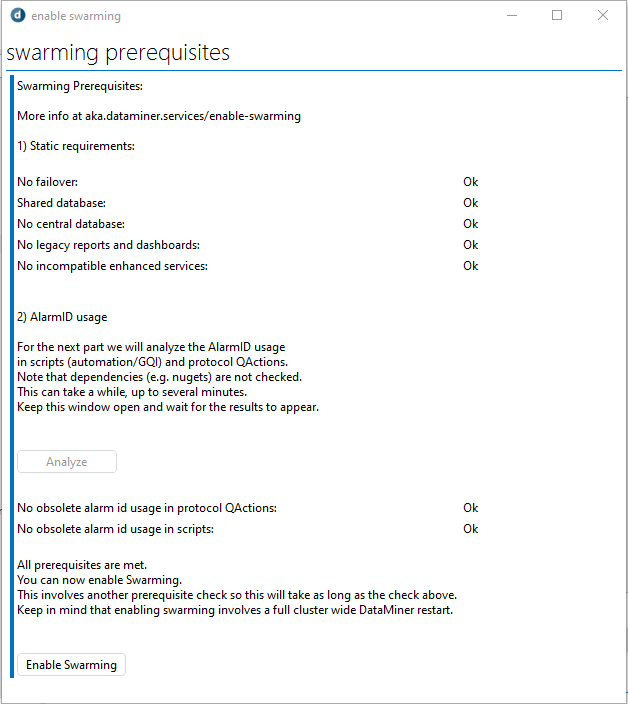
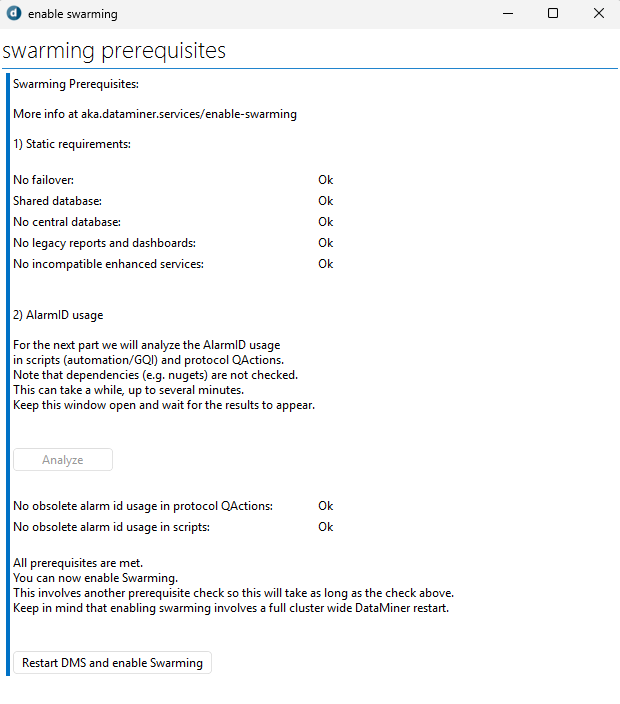
Review
Includes a change to several tutorials because checking the deployment status in the Admin app is no longer needed.

diff --git a/user-guide/Advanced_Functionality/Swarming/Tutorials/EnableSwarmingTutorial.md b/user-guide/Advanced_Functionality/Swarming/Tutorials/EnableSwarmingTutorial.md
@@ -3,16 +3,24 @@ uid: Swarming_Tutorial_Enable
 keywords: swarming, swarming tutorial
 ---
 
-# Enabling Swarming Tutorial
+# Enabling Swarming
 
-In this tutorial, you will learn how to enable Swarming in your DMS and swarm your first element.
+In this tutorial, you will learn how to enable [Swarming](xref:Swarming) in your DMS and swarm your first element. The tutorial makes use of an example Automation script to demonstrate how you need to adjust scripts to make sure you can enable Swarming.
+
+The content and screenshots for this tutorial have been created using DataMiner version 10.5.3.
 
 ## Prerequisites
 
-- A DataMiner System that is [connected to dataminer.services](https://docs.dataminer.services/user-guide/Cloud_Platform/Connecting_to_cloud/Connecting_your_DataMiner_System_to_the_cloud.html).
-- The DataMiner version is 10.5.1/10.6.0[CU0] or higher.
-- A DataMiner System with 2 or more agents. If you are using a single agent, you can follow along, however you won't be able to do the last step (swarming an element).
-- Swarming has its own set of prerequisites, more on that later during the tutorial.
+For this tutorial, you will need a DataMiner System that meets the following requirements:
+
+- [Connected to dataminer.services](https://docs.dataminer.services/user-guide/Cloud_Platform/Connecting_to_cloud/Connecting_your_DataMiner_System_to_the_cloud.html).
+- Using DataMiner 10.5.1/10.6.0 [CU0] or higher.
+- Containing two or more Agents, but no Failover Agents. If you are using a single Agent, you can follow along, but you will not be able to do the last step (swarming an element).
+- Using [STaaS](xref:STaaS) or a [dedicated clustered storage](xref:Configuring_dedicated_clustered_storage) setup.
+- Without [data offloads](xref:Offload_database) configured.
+- The [*LegacyReportsAndDashboards* soft-launch option](xref:Overview_of_Soft_Launch_Options#legacyreportsanddashboards) is not enabled.
+
+Other prerequisites for Swarming will be addressed later in this tutorial.
 
 ## Overview
 
@@ -29,138 +37,128 @@ To deploy the package:
 
 1. Deploy the latest version of the package on your DMA using the *Deploy* button.
 
-    While the package is being deployed, you can follow the progress of the deployment in the [Admin app](xref:Accessing_the_Admin_app), on the *Deployments* page for your DMS. Make sure to use the *Refresh* button in the top-left corner.
+1. When the package has been deployed, open DataMiner Cube and check whether you can see the following scripts in the *Kata - Swarming* folder of the Automation module:
 
-    The package will deploy the following components:
+   - *Mask Critical Alarms*: This is a demo script to mask the critical alarms of some elements.
 
-    - The **Mask Critical Alarms** Automation script, which is a demo script to mask the critical alarms of some elements.
-
-    - The **Enable Swarming** Automation script, which is an interactive automation script to go through the enabling procedure for Swarming.
-
-    Both scripts can be found under the **Kata - Swarming** folder.
+   - *Enable Swarming*: This interactive Automation script takes you through the enabling procedure for Swarming.
 
    ![Package Content](~/user-guide/images/Swarming_Tutorial_Enable_Package_Content.png)
 
 ## Step 2: Create a basic test element
 
-In this tutorial we will Swarm an element.
+In this tutorial, you will swarm an element. To avoid impacting ongoing operations, start by adding a new test element.
 
-To not impact any ongoing operation, you can create a new basic test element or you can import some demo elements from for example the [Satellite Earth Station Uplink](https://catalog.dataminer.services/details/c8adec4a-e7be-47a4-b7a4-e574e0381fe6) package.
+You can either [create a new basic test element](xref:Adding_elements) yourself or import a demo element, e.g. by deploying the [Satellite Earth Station Uplink](https://catalog.dataminer.services/details/c8adec4a-e7be-47a4-b7a4-e574e0381fe6) package.
 
-If you create a new element, you must specify the protocol.
-Since we are not doing anything except swarming the element, the protocol does not matter as long as it is swarmable.
-In DataMiner 10.5.1, most protocols are swarmable, most notable exceptions are protocols exporting virtual elements and spectrum elements.
-
-See also [Adding Elements](xref:Adding_elements) on how to create a new element.
+If you choose to create a new element yourself, you can select any protocol of your choice for it, except for a spectrum protocol or a DVE protocol, as these would not result in a swarmable element.
 
 ## Step 3: Enable Swarming
 
-Swarming has its own set of prerequisites.
-You can use the **Enable Swarming** script deployed with the Catalog package to go through them dynamically.
+Swarming has its own set of prerequisites. In this step, you will use a script from the deployed package to make sure these are met and then enable Swarming.
 
-1. Static requirements:
+1. In the Automation module in DataMiner Cube, select the *Enable Swarming* script and click the *Execute* button.
 
-   Launch the script for the first time and it will quickly verify the static requirements.
-   These are requirements not easily changed in your DMS such as database type or failover configuration.
+   ![Execute the Enable Swarming script](~/user-guide/images/Swarming_Tutorial_Run_script.png)
+
+1. In the pop-up window, click *Execute now*.
+
+   Information about the Swarming prerequisites will be displayed.
+
+1. Take a look at the mentioned static requirements.
+
+   These are the DMS requirements that are more difficult to change, such as the database type or Failover configuration. Based on the prerequisites for this tutorial, all prerequisites should be met, except possibly the requirement for compatible enhanced services.
 
    ![Static requirements](~/user-guide/images/Swarming_Tutorial_Enable_Static_Requirements.png)
 
-   You will see the status for your DMS and which requirements are met.
-   If not all requirements are met, you will not be able to enable Swarming.
-   If you are using a Skyline protocol for enhanced services, you will need to update it to use the latest version.
+1. In case *No incompatible enhanced services* is *Not Ok*, follow the instructions to [prepare enhanced service connectors for Swarming](xref:SwarmingPrepare#enhanced-service-connectors), and then run the script again.
 
-1. AlarmID usage:
+1. Click the *Analyze* button to start checking the alarm ID usage.
 
-   Once the static requirements are met, we can move on to the AlarmID usage.
-   This section will automatically appear when above requirements are met.
-   The AlarmID usage refers to the unique identifier of alarms and their usage in scripting (Automation/QActions).
+   This button will only be available once all static requirements are met. It will analyze the use of the unique identifiers of alarms in scripting (Automation scripts and QActions), as this has been modified to support Swarming. (See [About the Alarm ID changes](xref:SwarmingPrepare#about-the-alarm-id-changes).)
 
-   ![AlarmID Usage](~/user-guide/images/Swarming_Tutorial_Enable_AlarmID_Usage.png)
+   This check can take up to several minutes, depending on the number of scripts and connectors in the system.
 
-   In order for Swarming to work, this alarm identifier has been updated which is a breaking change.
-   To prevent possible issues as much as possible, there is a check to analyze your scripts automatically for problems.
-   Unfortunately it's not possible to scan dependencies (e.g. nugets), so these might still contain outdated references.
-   If this would be the case, running these scripts on a Swarming system would throw a clear error message.
+   ![Alarm ID usage](~/user-guide/images/Swarming_Tutorial_Enable_AlarmID_Usage.png)
 
-   Press the **Analyze** and wait for a bit until the results appear. This can take a while, up to several minutes depending on how many scripts and protocols you have.
+   > [!NOTE]
+   > It is not possible to scan dependencies (e.g. NuGets) with this script, so these may still contain outdated references. However, if this should be the case, running these scripts on a system where Swarming is enabled will throw a clear error message.
 
-   ![AlarmID Usage Problem](~/user-guide/images/Swarming_Tutorial_Enable_AlarmID_Usage_Problem.png)
+1. Take a look at the results of the analysis.
 
-   After analysis is done, the **Mask Critical Alarms** script should appear as one of the found problems.
-   This script takes as input a reference to an element and will mask all critical alarms of this element.
-   It does so by using a **SetAlarmStateMessage** and includes an identifier reference to the alarm it should mask.
-   This identifier still uses the old style of **DataMinerID/AlarmID** integer combination. This is no longer correct and will need a **TreeID** instead.
-   If you were to open this script via DIS in Visual Studio, you would see an obsolete warning.
-   You can also see this if you open the script via the Automation app and press the **Validate** button to check for errors and warnings.
+   ![Alarm ID usage problem](~/user-guide/images/Swarming_Tutorial_Enable_AlarmID_Usage_Problem.png)
+
+   The *Mask Critical Alarms* script will be displayed as one of the problems that have been found. This script takes as input a reference to an element and will mask all critical alarms of this element. It does so by using a *SetAlarmStateMessage* and includes an identifier reference to the alarm it should mask, but this identifier still uses the old style of referring to an alarm, i.e. a **DataMiner ID/Alarm ID** integer combination. This is must be changed to a **tree ID** instead.
+
+1. Open the *Mask Critical Alarms* script in the Automation app, scroll down, and click *Validate* to check for errors and warnings.
+
+   You will see that a warning is detected. If you were to open this script via DIS in Visual Studio, you would also see an obsolete warning.
 
    ![AlarmID Usage Problem Warning](~/user-guide/images/Swarming_Tutorial_Enable_AlarmID_Usage_Problem_Warning.png)
 
-   Update the code in the foreach block (Line 85) as follows:
+1. Update the code in the *foreach* block (line 85) as follows:
 
-    Before:
+   Before:
 
-    ```csharp
-        var maskRequest = new SetAlarmStateMessage();
-        maskRequest.DataMinerID = alarm.DataMinerID;
-        maskRequest.AlarmId = alarm.AlarmID;
-        maskRequest.DesiredStatus = AlarmUserStatus.Mask;
-        maskRequests.Add(maskRequest);
+   ```csharp
+      var maskRequest = new SetAlarmStateMessage();
+      maskRequest.DataMinerID = alarm.DataMinerID;
+      maskRequest.AlarmId = alarm.AlarmID;
+      maskRequest.DesiredStatus = AlarmUserStatus.Mask;
+      maskRequests.Add(maskRequest);
     ```
 
-    After:
+   After:
 
-    ```csharp
-        var maskRequest = new SetAlarmStateMessage(alarm.TreeID, AlarmUserStatus.Mask, "");
-        maskRequests.Add(maskRequest);
-    ```
+   ```csharp
+      var maskRequest = new SetAlarmStateMessage(alarm.TreeID, AlarmUserStatus.Mask, "");
+      maskRequests.Add(maskRequest);
+   ```
 
-   Press the **validate** button to see if all warnings and errors are gone.
+1. Click *Validate* again to see if all warnings and errors are gone.
 
-   ![AlarmID Usage Problem Fix](~/user-guide/images/Swarming_Tutorial_Enable_AlarmID_Usage_Problem_Fix.png)
+   ![Alarm ID usage problem fix](~/user-guide/images/Swarming_Tutorial_Enable_AlarmID_Usage_Problem_Fix.png)
 
-   If any other scripts or protocols appear, this will also need an update.
-   There will always be an overload or constructor you can use instead, which will refer to the **TreeID** or **AlarmTreeID**.
+1. If any other scripts or protocols are shown in the alarm ID usage summary, update these in a similar way to make sure they refer to the tree ID or alarm tree ID and validate them.
 
-   Please verify any updated script or protocol still works.
+   For detailed information, refer to [Preparing scripts and connectors for Swarming](xref:SwarmingPrepare)
 
-1. Enabling Swarming
+1. Run the the *Enable Swarming* script again and click the *Analyze* button again.
 
-   Once the static requirements are met and there are no AlarmID usage problems detected, a button will appear that you can press to enable Swarming.
-   Pressing this button will send the enable command to your DMS and will **restart the whole DMS**.
-   This process will check the requirements again, so this will take the same time as the step above.
-   After the DataMiner System restart, Swarming will be enabled.
+   If you have indeed correctly updated all scripts and protocols, a new button will be displayed at the bottom of the window. If you do not see this button, check which scripts or protocols still need to be updated and adjust them as mentioned above.
 
    ![AlarmID Usage Problem Fix](~/user-guide/images/Swarming_Tutorial_Enable_No_Problems.png)
 
+1. Click *Restart DMS and enable Swarming*.
+
+   The script will now double-check the requirements (which will again take some time), enable Swarming, and restart DataMiner.
+
+   > [!IMPORTANT]
+   > This will restart all DataMiner Agents in your DMS.
+
 ## Step 4: Swarm your first element
 
-Now it's time to swarm your first element.
-In general, Swarming means moving the functionality from one host to another host in the same cluster.
-
-For elements this is more or less equivalent with a full element restart, but the stop and start are executed on different hosts.
-Swarming elements is possible via the DataMiner Cube client as well as an automation API.
-
-To swarm elements in DataMiner Cube:
+Once DataMiner has restarted, you can test the Swarming functionality by moving an element from one host to another host in your DMS. You will only be able to follow these steps if you are using a DataMiner System consisting of multiple Agents.
 
 1. Go to *System Center* > *Agents* > *Status* and click the *Swarm* button in the lower right corner.
 
-    If you do not see any *Swarm* button here, this means you are not in a cluster environment and working with a single agent. As you cannot swarm to another host, this button is not present.
+   If you see a *Migrate* button here instead, this means Swarming has not been successfully enabled.
 
-    If you see a *Migrate* button here instead, this means Swarming was not successfully enabled. If you open this window, you will be using the DELT Export + Import flow instead.
+   ![Cube Status](~/user-guide/images/Swarming_Tutorial_Enable_Cube_Status.png)
 
-    ![Cube Status](~/user-guide/images/Swarming_Tutorial_Enable_Cube_Status.png)
+1. On the left, select the test element you created in [step 2](#step-2-create-a-basic-test-element).
 
-1. On the left, select the element(s) you want to swarm.
-
-    Here you can select the test element you created in step 2.
-    You can swarm more elements if you want, but keep in mind that swarming an element still involves an element restart, which means minimal downtime.
+   Note that you can select more elements to swarm if you want, but keep in mind that swarming an element involves an element restart, which will result in a brief downtime of the element.
 
 1. On the right, select the destination DMA.
 
-    ![Cube Swarm](~/user-guide/images/Swarming_Tutorial_Enable_Cube_Swarm.png)
+   ![Cube Swarm](~/user-guide/images/Swarming_Tutorial_Enable_Cube_Swarm.png)
 
 1. Click *Swarm*.
 
-    ![Cube Success](~/user-guide/images/Swarming_Tutorial_Enable_Cube_Success.png)
+   A message will be displayed when the element has been successfully swarmed:
 
-For more details about Swarming elements, see the [docs](xref:SwarmingElements).
+   ![Cube Success](~/user-guide/images/Swarming_Tutorial_Enable_Cube_Success.png)
+
+> [!TIP]
+> For more details about Swarming elements, see [Swarming elements](xref:SwarmingElements).

diff --git a/user-guide/Advanced_Functionality/Swarming/SwarmingElements.md b/user-guide/Advanced_Functionality/Swarming/SwarmingElements.md
@@ -6,7 +6,7 @@ uid: SwarmingElements
 
 With DataMiner Swarming, you can swarm basic elements from one DataMiner Agent to another within a cluster. You can do so [in DataMiner Cube](#swarming-elements-in-dataminer-cube) or [via an Automation script](#swarming-elements-via-automation).
 
-When you are swarming an element so it gets hosted on a different DataMiner Agent, a temporary transition occurs. While this happens, a message will be displayed to inform users that the element is currently swarming. The ability to open element cards or change the element configuration for the involved element will be temporarily suspended. Once the element migration is complete, it will become accessible again.
+When you are swarming an element so it gets hosted on a different DataMiner Agent, a temporary transition occurs. The element will be stopped and then started again on a new host. While this happens, a message will be displayed to inform users that the element is currently swarming. The ability to open element cards or change the element configuration for the involved element will be temporarily suspended. Once the element migration is complete, it will become accessible again.
 
 At present, Swarming is only possible with **regular elements**. Refer to [Upcoming features](xref:Swarming#upcoming-features) for information on which other types of elements will be supported in the future.
 

diff --git a/user-guide/Advanced_Modules/Dashboards_and_Low_Code_Apps/Dashboards_app/Tutorials/Visualizing_Starlink_Location_History_in_DataMiner.md b/user-guide/Advanced_Modules/Dashboards_and_Low_Code_Apps/Dashboards_app/Tutorials/Visualizing_Starlink_Location_History_in_DataMiner.md
@@ -41,9 +41,7 @@ Expected duration: 30 minutes
  -->
 1. Click the *Deploy* button to deploy the package on your DMA.
 
-   While the package is being deployed, you can follow the progress of the deployment in the [Admin app](xref:Accessing_the_Admin_app), on the *Deployments* page for your DMS. Make sure to use the *Refresh* button in the top-left corner.
-
-1. Go to the root page of your DataMiner System, for example by clicking the *Home* button for your DMS on the [dataminer.services page](https://dataminer.services/).
+1. When the package has been deployed, go to the root page of your DataMiner System, for example by clicking the *Home* button for your DMS on the [dataminer.services page](https://dataminer.services/).
 
 1. Check if you can see the *Starlink Enterprise* app listed under *SatOps*.
 

diff --git a/user-guide/Advanced_Modules/Dashboards_and_Low_Code_Apps/Dashboards_app/Tutorials/Alarm_Dashboard_for_your_daily_DMS_health_check.md b/user-guide/Advanced_Modules/Dashboards_and_Low_Code_Apps/Dashboards_app/Tutorials/Alarm_Dashboard_for_your_daily_DMS_health_check.md
@@ -35,9 +35,7 @@ Expected duration: 20 minutes
 
 1. Click the *Deploy* button to deploy the *Alarm Report* package on your DMA.
 
-   While the package is being deployed, you can follow the progress of the deployment in the [Admin app](xref:Accessing_the_Admin_app), on the *Deployments* page for your DMS. Make sure to use the *Refresh* button in the top-left corner.
-
-1. [Open the Dashboards app](xref:Accessing_the_Dashboards_app) and check if you can see the *Alarm Report* dashboard.
+1. When the package has been deployed, [open the Dashboards app](xref:Accessing_the_Dashboards_app) and check if you can see the *Alarm Report* dashboard.
 
    When the deployment is complete, this dashboard is added in the root view of your dashboards folder structure.
 

diff --git a/user-guide/Advanced_Modules/Dashboards_and_Low_Code_Apps/Dashboards_app/Tutorials/Tutorial_Apps_Node_Edge.md b/user-guide/Advanced_Modules/Dashboards_and_Low_Code_Apps/Dashboards_app/Tutorials/Tutorial_Apps_Node_Edge.md
@@ -64,9 +64,7 @@ To deploy the package:
 
 1. Click the *Deploy* button to deploy the package on your DMA.
 
-   While the package is being deployed, you can follow the progress of the deployment in the [Admin app](xref:Accessing_the_Admin_app), on the *Deployments* page for your DMS. Make sure to use the *Refresh* button in the top-left corner.
-
-The package contains the following components:
+The package will deploy the following components:
 
 - Automation script [JSON Reader](https://catalog.dataminer.services/details/automation-script/5491): You will be able to find this in the Automation module, in the folder *Automation Scripts/GQI/Data sources*.
 

diff --git a/user-guide/Advanced_Functionality/DCF/working_with_dcf_interface_properties_gqi.md b/user-guide/Advanced_Functionality/DCF/working_with_dcf_interface_properties_gqi.md
@@ -33,8 +33,6 @@ To deploy the package:
 
 1. Deploy the latest version of the package on your DMA using the *Deploy* button.
 
-   While the package is being deployed, you can follow the progress of the deployment in the [Admin app](xref:Accessing_the_Admin_app), on the *Deployments* page for your DMS. Make sure to use the *Refresh* button in the top-left corner.
-
    The package will deploy the following components:
 
    - The **Generic Data Simulator** connector, which exposes DCF interfaces and will be used by the elements created for this tutorial.

diff --git a/user-guide/Advanced_Functionality/DCF/getting_started_dataminer_connectivity_framework.md b/user-guide/Advanced_Functionality/DCF/getting_started_dataminer_connectivity_framework.md
@@ -57,8 +57,6 @@ To deploy the package:
 
 1. Click the *Deploy* button to deploy the package on your DMA.
 
-   While the package is being deployed, you can follow the progress of the deployment in the [Admin app](xref:Accessing_the_Admin_app), on the *Deployments* page for your DMS. Make sure to use the *Refresh* button in the top-left corner.
-
    The package will deploy the following components:
 
    - The **Generic Data Simulator** connector, which exposes DCF interfaces and will be used by the elements created for this tutorial.

diff --git a/solutions/standard_solutions/EPM/EPM_VSAT/VSAT_deployment.md b/solutions/standard_solutions/EPM/EPM_VSAT/VSAT_deployment.md
@@ -16,8 +16,6 @@ Start by deploying the DataMiner EPM VSAT package to the system:
 
 This will install the connectors, Automation scripts, and Visio drawings needed to create and configure the DataMiner EPM VSAT Solution.
 
-While the package is being deployed, you can follow the progress of the deployment in the Admin app, on the *Deployments* page for your DMS. Make sure to use the *Refresh* button in the top-left corner.
-
 ## Collectors configuration
 
 ### iDirect Evolution collector

diff --git a/user-guide/Advanced_Functionality/Swarming/EnableSwarming.md b/user-guide/Advanced_Functionality/Swarming/EnableSwarming.md
@@ -4,6 +4,9 @@ uid: EnableSwarming
 
 # Enabling the Swarming feature
 
+> [!TIP]
+> Instead of following the procedure detailed below, you can also follow the [Enabling Swarming tutorial](xref:Swarming_Tutorial_Enable). This tutorial uses a script to check whether prerequisites are met and provides an example of how to adjust other scripts and protocols in order to prepare your system for Swarming.
+
 ## Prerequisites
 
 - DataMiner 10.5.1/10.6.0 or higher.
